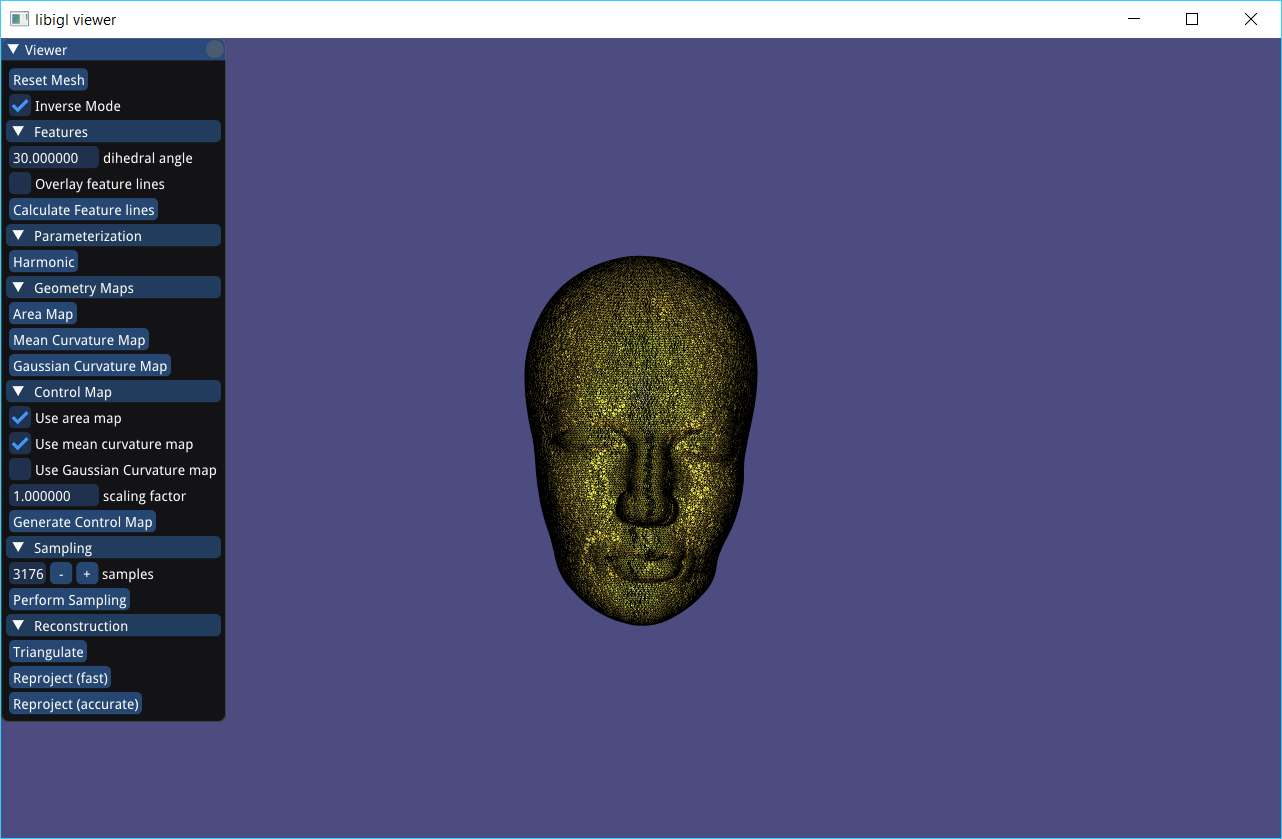
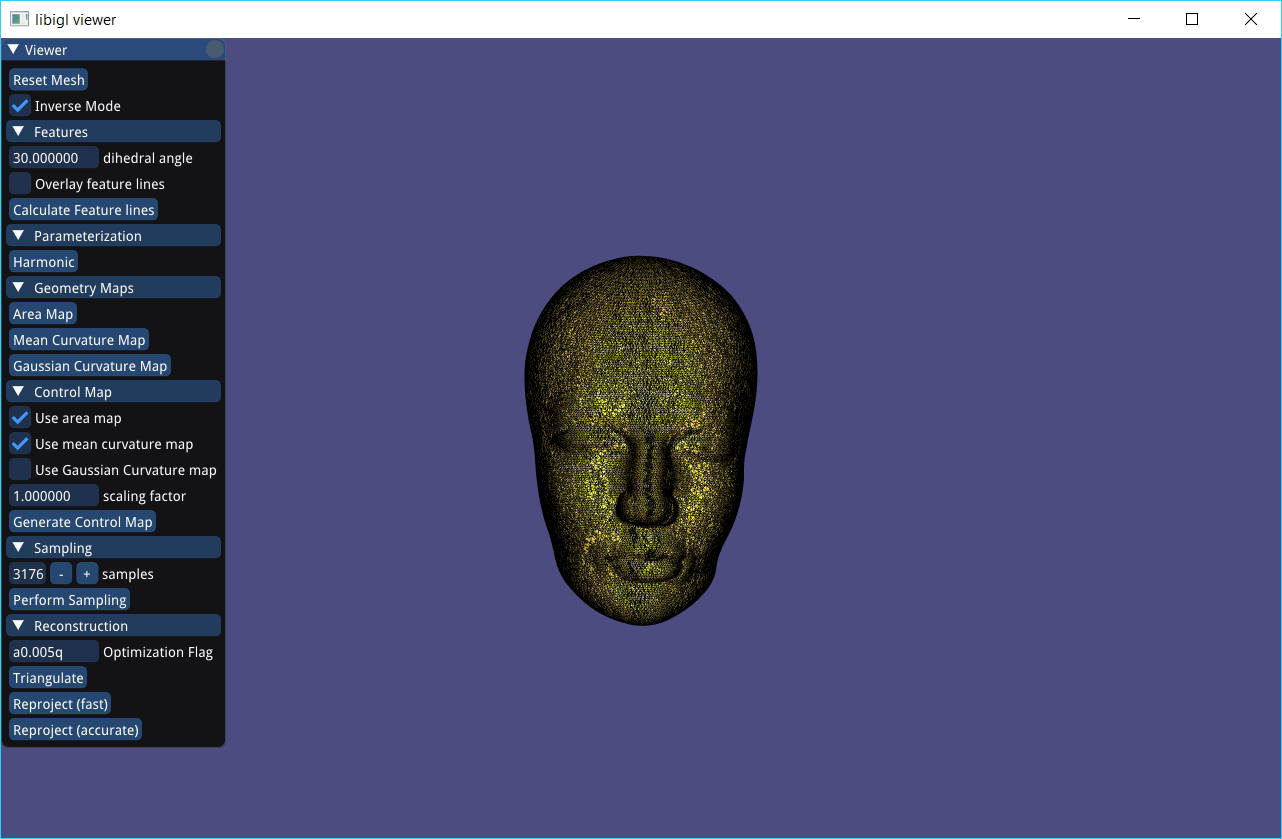
add option for triangulation optimization

Changed region(s): [[0.0, 0.7437, 0.1872, 0.8987]]

diff --git a/src/main.cpp b/src/main.cpp
@@ -42,6 +42,9 @@ struct Option
 
     // Sampling
     int num_of_samples;
+
+    // Triangulation
+    char triangulation_flag[15];
 } options;
 
 MatrixXd V(0, 3);                       //vertex array, #V x3
@@ -101,6 +104,7 @@ int main(int argc, char *argv[])
     options.use_gaus_curv_map = false;
     options.scaling_factor = 1.0;
     options.num_of_samples = V.rows() / 10;
+    std::strcpy(options.triangulation_flag, "a0.005q");
 
     // Calculate principle curvatures
     cout << "Calculate principle curvatures" << endl;
@@ -203,12 +207,14 @@ int main(int argc, char *argv[])
 
         if (ImGui::CollapsingHeader("Reconstruction", ImGuiTreeNodeFlags_DefaultOpen))
         {
+            ImGui::InputText("Optimization Flag", options.triangulation_flag, sizeof(options.triangulation_flag));
+
             if (ImGui::Button("Triangulate"))
             {
                 MatrixXd UV, H;
                 MatrixXi E;
                 get_uv_coord_from_pixel_img(sampling_data, UV, E);
-                igl::triangle::triangulate(UV, E, H, "a0.005q", V2, F2);
+                igl::triangle::triangulate(UV, E, H, options.triangulation_flag, V2, F2);
                 reset_mesh(viewer, V2, F2);
             }
 

diff --git a/README.md b/README.md
@@ -13,7 +13,7 @@ Below are the major steps involved in this pipeline:
 1.	Features extraction
 1.	Control map design
 1.	Control map sampling and preview
-1.	Mesh creation through Delaunay triangulation
+1.	Mesh creation through Delaunay triangulation (with optimization option)
 1.  Reproject 2D mesh into 3D
 
 Currently, the input of this pipeline must be a mesh patch with genus-0 and a open boundary. The output of this pipeline is a new mesh which has the desired properties (e.g., uniform).
